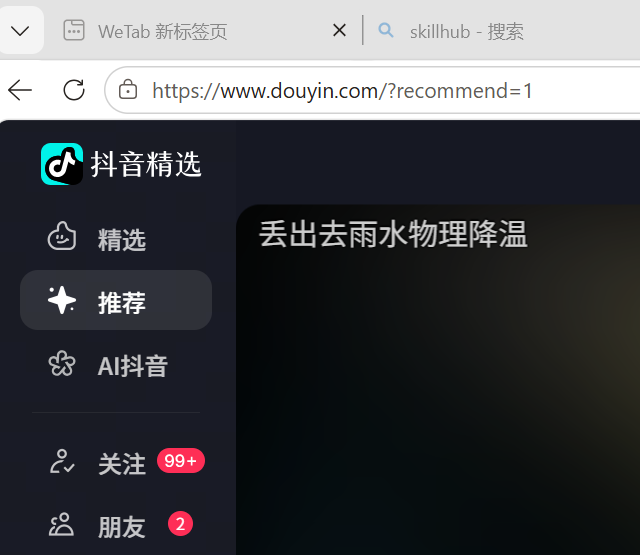
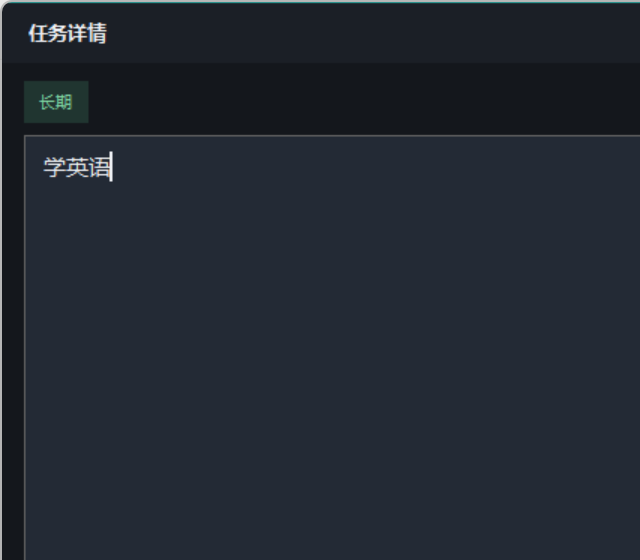
update screenshots and fix Ctrl+Alt+T→Z in README

diff --git a/README.md b/README.md
@@ -22,7 +22,7 @@
 | 特性 | 说明 |
 |---|---|
 | 🎨 极简深色界面 | 暖近黑底 + 单强调色，无任何视觉噪音 |
-| ⌨ 全局快捷键 | `Ctrl+Alt+T` 随时呼出 / 隐藏窗口 |
+| ⌨ 全局快捷键 | `Ctrl+Alt+Z` 随时呼出 / 隐藏窗口 |
 | 🏷 分类管理 | 「急 / 长期 / 不急」胶囊标签 + 分类色条，一目了然 |
 | 📄 任务详情二级窗口 | 双击任务行，查看全文 + 编辑 + 完成 + 删除 |
 | 🔄 自动顺延 | 未完成任务次日自动带入（无冗余标志打扰） |
@@ -60,7 +60,7 @@ python task_widget.py
 | 标记完成 | 点击任务左侧 ○ 圆圈 |
 | 查看 / 编辑全文 | **双击任务行**（长文本不再被截断） |
 | 分类 / 更多操作 | 任务行**右键菜单**（完成 / 恢复 / 编辑 / 分类 / 删除） |
-| 隐藏 / 显示 | `Ctrl+Alt+T` 全局快捷键 |
+| 隐藏 / 显示 | `Ctrl+Alt+Z` 全局快捷键 |
 | 最小化 | 标题栏 `—`（等同隐藏，快捷键可恢复） |
 | 退出 | 标题栏 `✕` |
 
